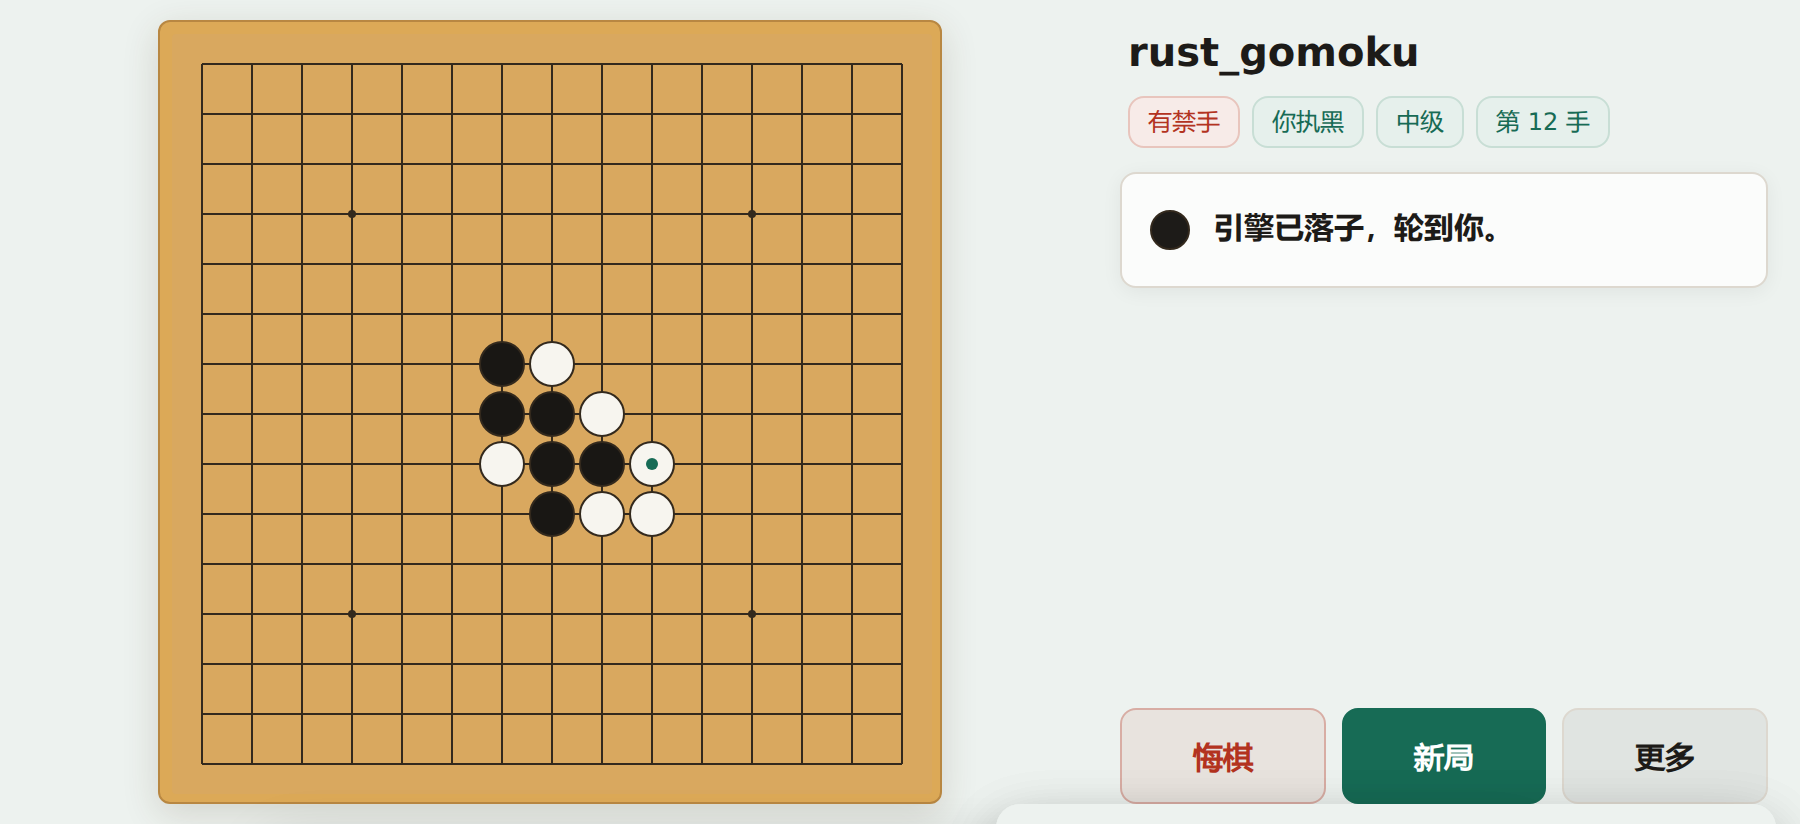
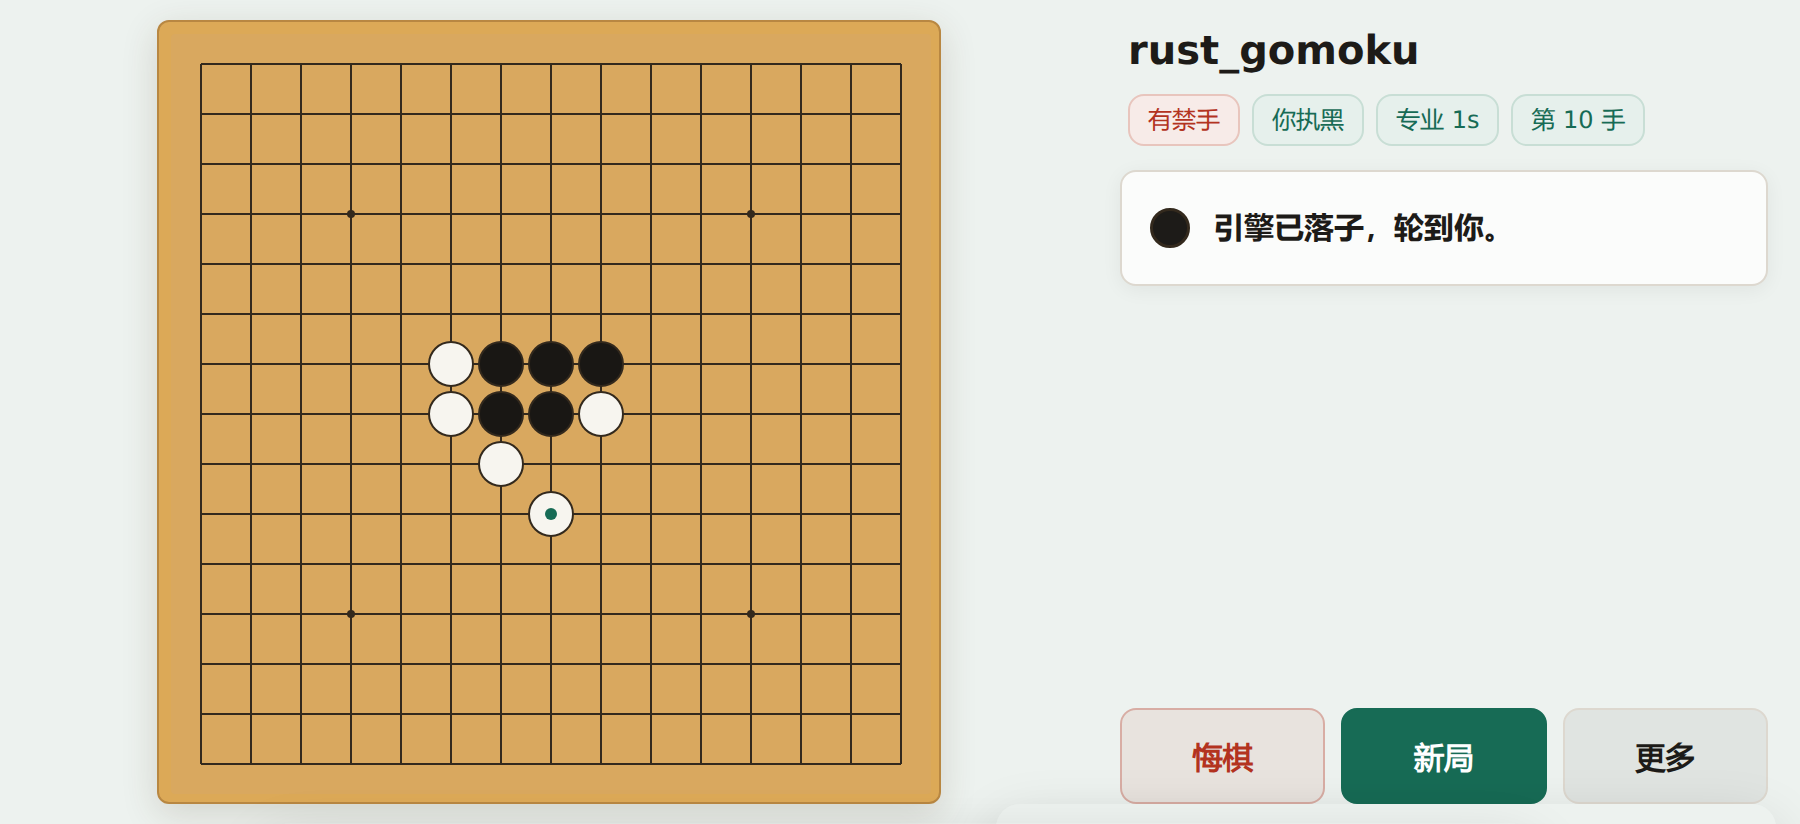
docs: refresh desktop and Android screenshots for v0.1.17 NNUE Pro/Casual UI

diff --git a/README.md b/README.md
@@ -12,22 +12,22 @@ Download the Windows x64 program and signed Android ARM64 APK / AAB from the [la
 
 The Windows program opens this local browser interface. Play against the engine or another person, choose freestyle or Renju, switch between Pro mode (NNUE `Mix9svq` with per-move time budgets `500 ms`–`5000 ms`, default `1000 ms`) and Casual mode (four classical fixed-depth presets), and toggle multi-threaded search from the side panel.
 
-![Desktop GUI showing a game against the engine and the rule, thinking-mode, difficulty, and multi-thread controls](docs/screenshots/desktop-gui.png)
+![Desktop GUI showing a Renju game against the engine with Pro NNUE 1s mode and multi-thread controls](docs/screenshots/desktop-gui.png)
 
 ### Android
 
 The mobile interface puts the board, turn status, and undo/new-game controls together. It bundles the `Mix9svq` NNUE weights and defaults to Pro timed mode (`500 ms` / `1000 ms` / `2500 ms` / `5000 ms`, default `1000 ms`, unified `tt_bits = 20` / 32 MiB TT), while also offering Casual fixed-depth mode (Beginner / Normal / Senior / Master) and a multi-threaded search toggle.
 
 <p>
-  <img src="docs/screenshots/android-portrait.png" alt="Android interface in portrait orientation during a Renju game" width="320">
-  <img src="docs/screenshots/android-difficulty.png" alt="Android settings preview from an earlier release" width="320">
+  <img src="docs/screenshots/android-portrait.png" alt="Android interface in portrait orientation during a Renju Pro 1s game" width="320">
+  <img src="docs/screenshots/android-difficulty.png" alt="Android new-game sheet with Pro NNUE time limits and Casual mode toggle" width="320">
 </p>
 
 Landscape mode places the controls beside the board:
 
 ![Android interface in landscape orientation](docs/screenshots/android-landscape.png)
 
-Capture notes: the desktop screenshot was taken from the running GUI in WSL, which serves the same page as the Windows build. Android images are browser previews from an earlier release using a real Rust-controller snapshot, without Android system bars; current builds use the Pro (`500 ms`–`5000 ms`, default `1000 ms`) + Casual (4-level) segmented controls.
+Capture notes: the desktop screenshot was taken from the running GUI in WSL, which serves the same page as the Windows build. Android images are browser previews of the app's bundled HTML/CSS/JavaScript using a real Rust-controller game snapshot, without Android system bars. They are not device screenshots.
 
 ## Current Status
 

diff --git a/README-cn.md b/README-cn.md
@@ -10,22 +10,22 @@ Windows x64 程序和已签名的 Android ARM64 APK / AAB 可从[最新 Release]
 
 Windows 程序启动后打开本地网页界面。可与引擎对弈或进行双人对局，在右侧选择无禁手或连珠规则、切换专业模式（NNUE `Mix9svq` 每步限时 `500 ms`–`5000 ms`，默认 `1000 ms`）或休闲模式（四档经典固定深度），并可开关多线程搜索。
 
-![桌面 GUI：与引擎对弈，右侧提供规则、思考模式、难度与多线程设置](docs/screenshots/desktop-gui.png)
+![桌面 GUI：连珠人机对局，右侧提供规则、休闲/专业 NNUE 限时与多线程设置](docs/screenshots/desktop-gui.png)
 
 ### Android
 
 手机界面集中展示棋盘、当前回合，以及悔棋和新局操作。内置打包 `Mix9svq` NNUE 权重，默认启用专业限时模式（`500 ms` / `1000 ms` / `2500 ms` / `5000 ms`，默认 `1000 ms`，统一 `tt_bits = 20` / 32 MiB TT），同时提供休闲四档难度（入门、普通、高级、大师）以及多线程搜索开关。
 
 <p>
-  <img src="docs/screenshots/android-portrait.png" alt="Android 竖屏界面：连珠对局进行中" width="320">
-  <img src="docs/screenshots/android-difficulty.png" alt="Android 早期版本设置界面预览" width="320">
+  <img src="docs/screenshots/android-portrait.png" alt="Android 竖屏界面：连珠专业 1s 对局进行中" width="320">
+  <img src="docs/screenshots/android-difficulty.png" alt="Android 新局设置面板：支持休闲/专业 NNUE 模式与四档限时分段切换" width="320">
 </p>
 
 横屏时，操作区排列在棋盘旁边：
 
 ![Android 横屏对局界面](docs/screenshots/android-landscape.png)
 
-截图说明：桌面图截自 WSL 中实际运行的 GUI，与 Windows 版本使用同一网页。Android 图片为早期版本在浏览器中预览截取的界面，不含 Android 系统栏；当前版本已升级为「专业（`500 ms`–`5000 ms`，默认 `1000 ms`）+ 休闲（四档）」分段按钮交互。
+截图说明：桌面图截自 WSL 中实际运行的 GUI，与 Windows 版本使用同一网页。Android 图片使用应用内置的 HTML/CSS/JavaScript 和 Rust 控制器产生的真实对局状态，在浏览器中预览截取，不含 Android 系统栏，非手机实机截图。
 
 ## 当前状态
 
